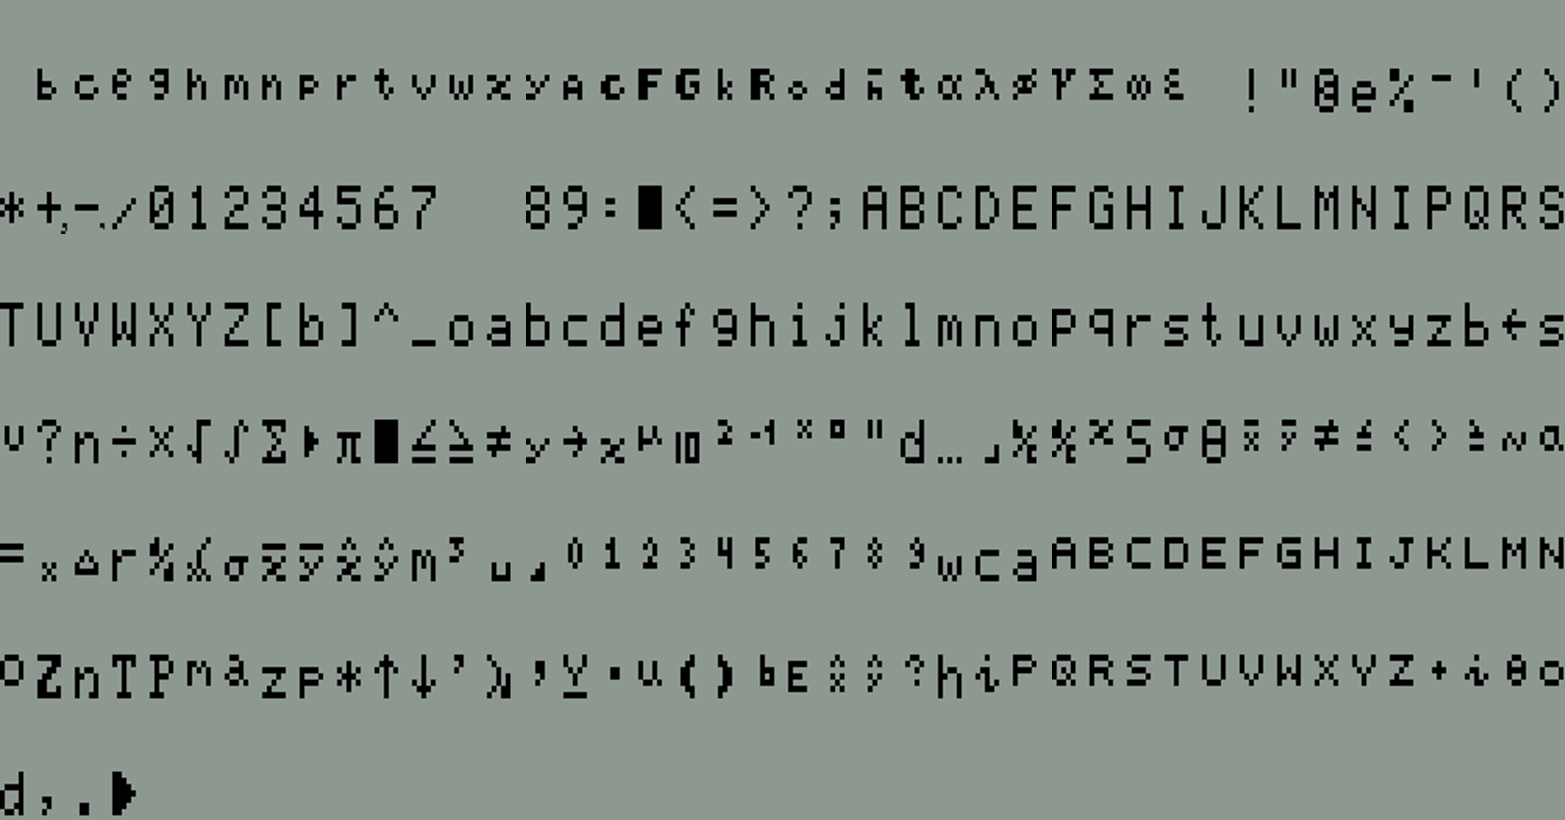
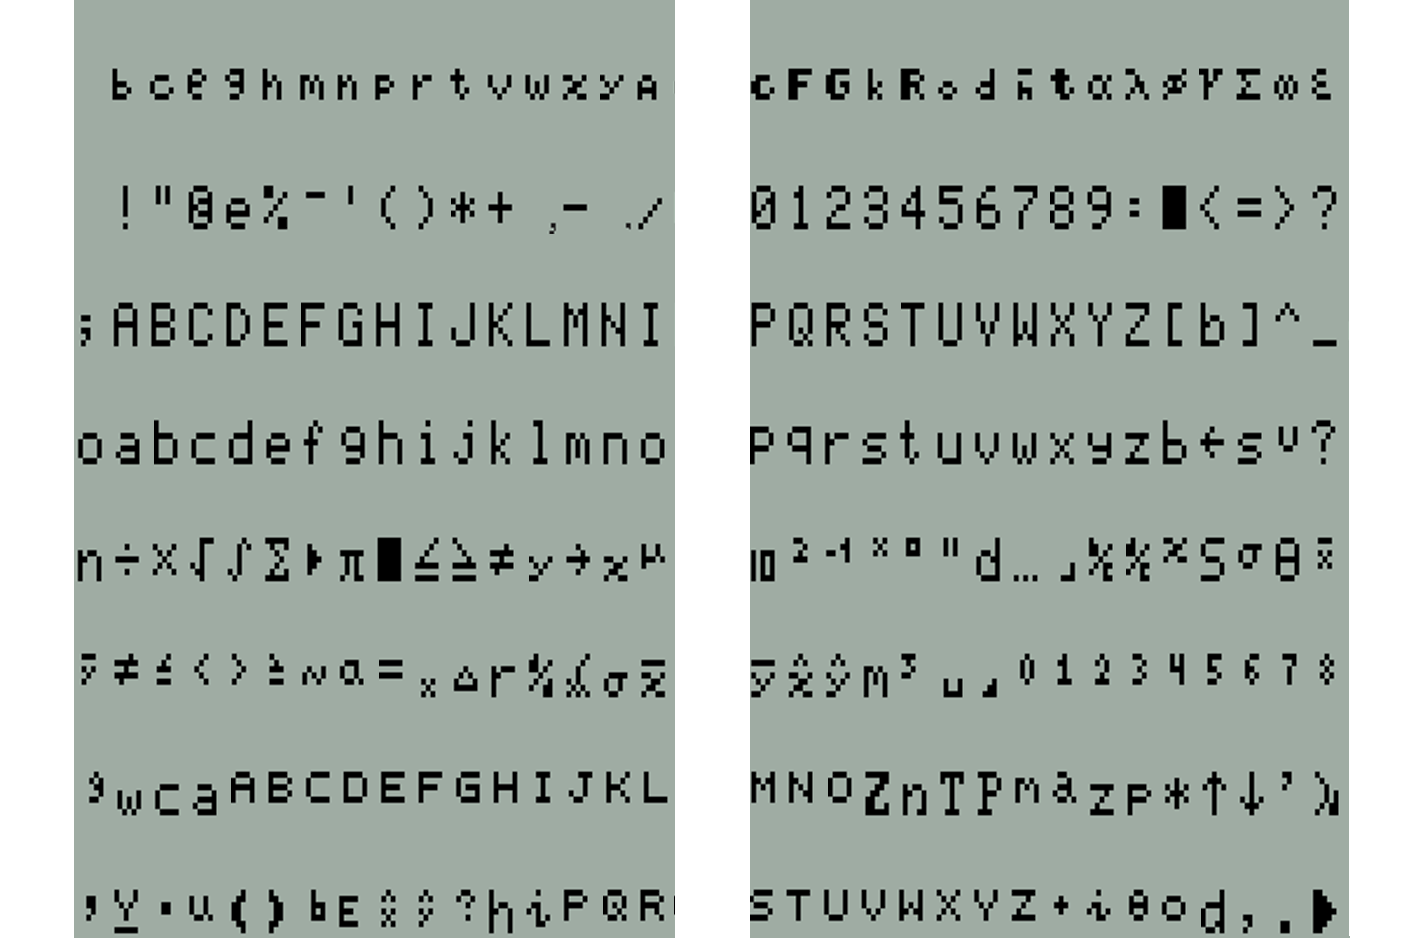
v0.3.5

diff --git a/extras/Character-Set.html b/extras/Character-Set.html
@@ -195,7 +195,7 @@
     <td>&ne;<br>2260<br>\=/</td>
     <td>&nbsp;<sub>y</sub><br><br>\_y</td>
     <td>&rarr;<br>2192<br>\-&gt;</td>
-    <td><span title="Mathematical italic small x">&#x1D465;</span><br>1D465<br>&nbsp;</td>
+    <td><span title="Mathematical italic small x"><sub>&#x1D465;</sub></span><br><br>&nbsp;</td>
     <td>&micro;<br>03BC<br>\Gm</td>
   </tr>
   <tr>
@@ -330,7 +330,7 @@
     <td><sup>Y</sup><br><br>\^Y</td>
     <td><sup>Z</sup><br><br>\^Z</td>
     <td><sup>+</sup><br>207A<br>\^+</td>
-    <td><sup>i</sup><br><br>\^i</td>
+    <td><span title="&amp;iscr;"><sup>&#x1D4BE;</sup></span><br><br>\^i</td>
     <td><span title="&lt;sup&gt;&amp;theta;&lt;/sup&gt;"><sup>&theta;</sup></span><br><br>&nbsp;</td>
     <td><span title="&lt;sup&gt;&lt;sub&gt;0&lt;/sub&gt;&lt;/sup&gt;">&nbsp;<sup><sub>0</sub></sup></span><br><br>&nbsp;</td>
     <td><span title="base decimal">&#x1D68D;</span><br>1D68D<br>&nbsp;</td>

diff --git a/CHANGELOG.md b/CHANGELOG.md
@@ -4,16 +4,25 @@ This CHANGELOG file is intended to help document all the details of HP35s develo
 The format is based on [Keep a Changelog](http://keepachangelog.com/en/1.0.0/)
 and this project adheres to [Semantic Versioning](http://semver.org/spec/v2.0.0.html).
 
-## [Unreleased] - 2019-05-24
+## [Unreleased]
+
+## [0.3.5] - 2019-06-04
+### Added
+- Charater-Set files to `extras`
 
 ### Changed
 - `\Mi` to `\im`
 - `&#x25B6;` to `&#x25BA;`
 - `&#x1F132;` to `&#x1F172;`
+- EQN character `%` and `,`
+- instruction `EQN` to `eqn`
 
 ### Fixed
 - fixing output of `ENG->`
 - fixing syntax for `RANDOM`
+
+### Remove
+- EQN character `a` and `u`
 
 ## 0.3.4 - 2019-05-17
 ### Added
@@ -83,4 +92,5 @@ and this project adheres to [Semantic Versioning](http://semver.org/spec/v2.0.0.
 ### Added
 - Initial version created
 
-[Unreleased]: https://github.com/brickpool/hp35s/compare/v0.3.4...HEAD
+[Unreleased]: https://github.com/brickpool/hp35s/compare/v0.3.5...HEAD
+[0.3.5]: https://github.com/brickpool/hp35s/compare/v0.3.4...v0.3.5

diff --git a/README.md b/README.md
@@ -1,2 +1,3 @@
-# hp35s
-HP 35s scientific calculator
+# HP35S scientific calculator 
+
+Further information can be found in the [wiki](https://github.com/brickpool/hp35s/wiki)
